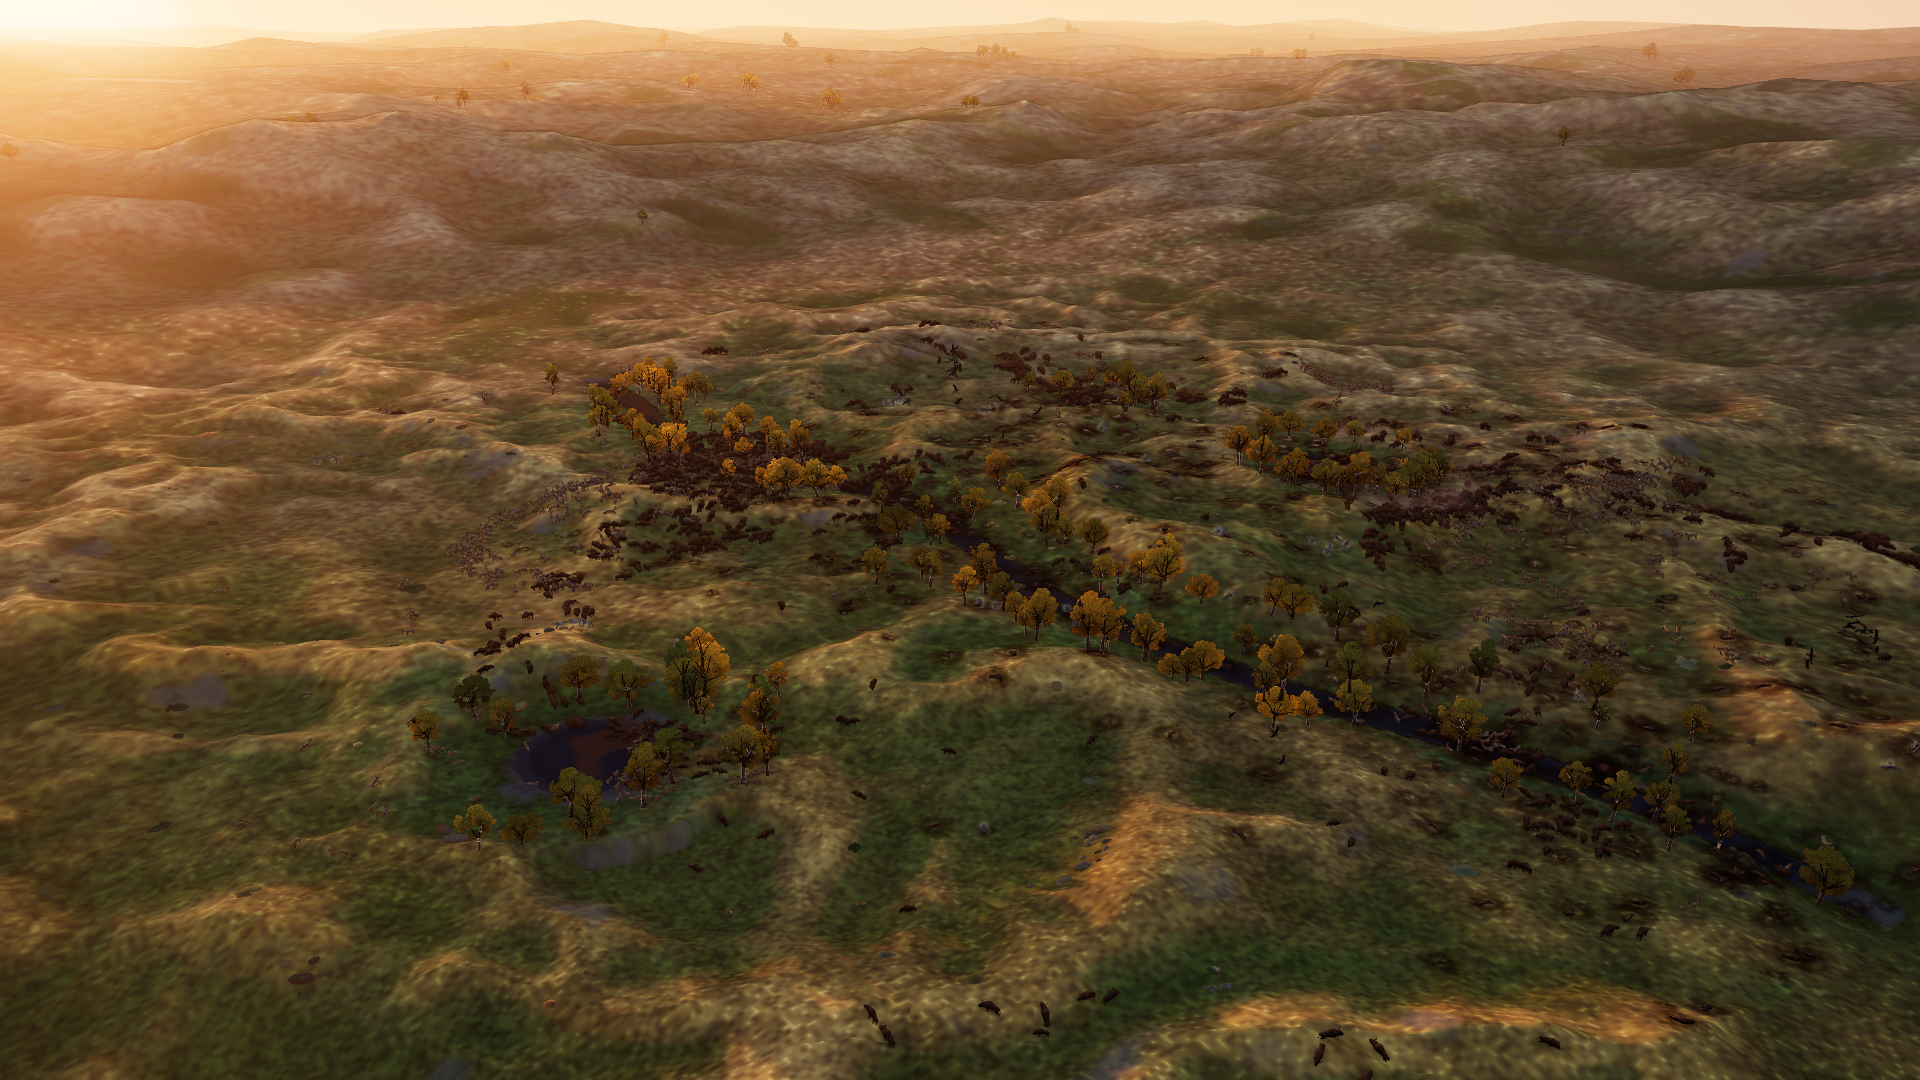
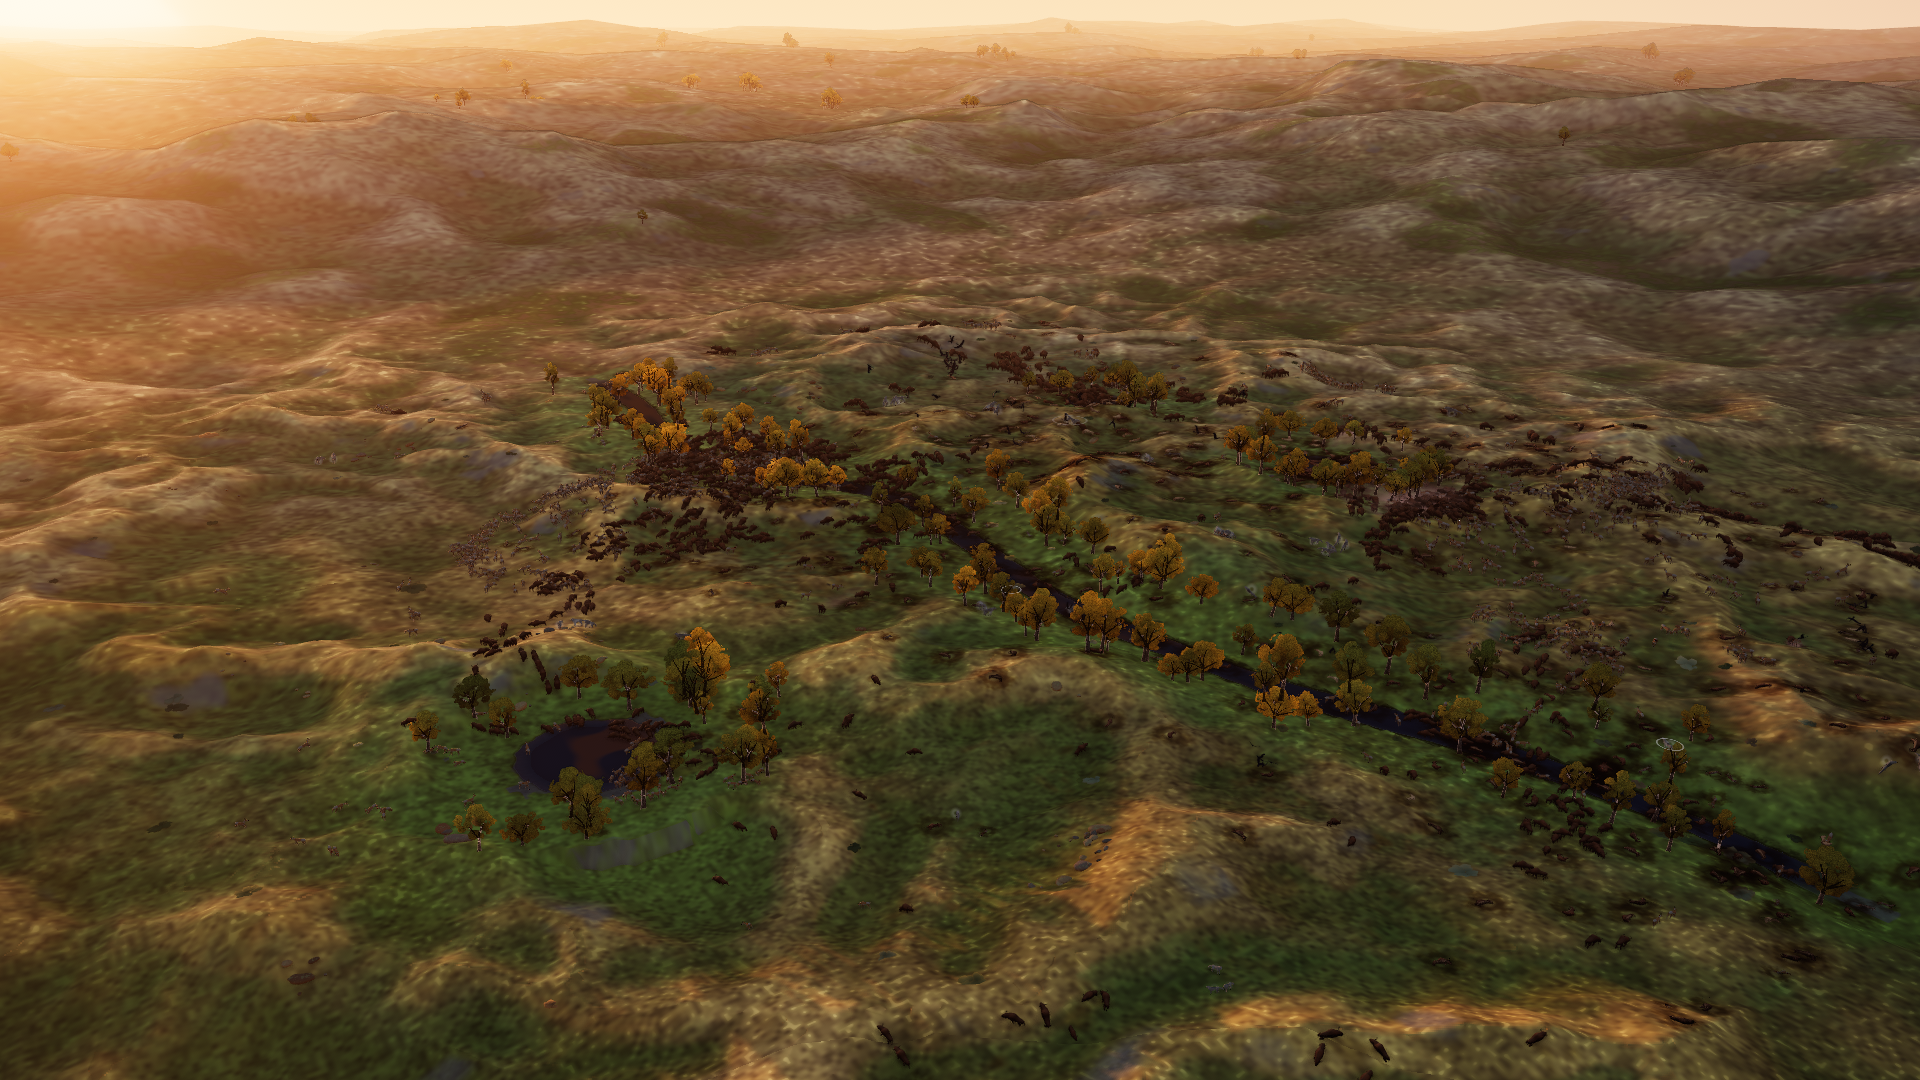
Morning report: 10:59 deploy with the riparian ribbon, round 10 Gemini scores, challenge suite re-check, final screenshots

diff --git a/MORNING.md b/MORNING.md
@@ -1,15 +1,15 @@
 # Good morning: Tallgrass overnight report
 
-*(Updated 10:37 Sunday. I keep working until the deadline in `.claude/hooks/run_until.txt` (Sunday 12:00); this file is refreshed at every milestone.)*
+*(Updated 11:05 Sunday. I keep working until the deadline in `.claude/hooks/run_until.txt` (Sunday 12:00); this file is refreshed at every milestone.)*
 
 ## How to run it (one step)
 Open **https://tallgrass.stewartgregerson.workers.dev** in Chrome or Edge. Click once anywhere to turn on sound. (The live build is redeployed after each verified milestone; the time of the last deploy is in the line below.)
 
-Last deploy: 10:36 Sunday (commit 268d73d: everything below, including the round 9 fixes (rain in the map view, frozen-pond rims, smaller chapter titles) and the final quick round: natural grey wolves, slimmer predators and brown bison from above, bison dark at dusk, idle head bobs and look-arounds, prey that struggles under a kill, wolf territories as tinted ranges, side panels that dim after 20 s idle, softer snow edges, smooth rocks, ponds without a white glare disc; and the rounds before it: smoother animal motion, curled resting wolves, species readable from above, carcasses on the slope, gliding ravens, water that reads at distance and in rain, winter snowpack and bare trees, visible rain, the chronicle's season lines, softer territories, the Hungry wolves scenario, the 2x valley calendar and the narrator), verified live at 10:36: no errors at 58 to 60 fps (1280x720); the default world reads "1 year every 2 min" and challenges keep "1 year every 4 min".
+Last deploy: 10:59 Sunday (commit 359f512: everything below, including the green riparian ribbon along the creek and ponds, the round 9 fixes (rain in the map view, frozen-pond rims, smaller chapter titles, traits in plain words, quieter graph labels, a coral territory) and the final quick round: natural grey wolves, slimmer predators and brown bison from above, bison dark at dusk, idle head bobs and look-arounds, prey that struggles under a kill, wolf territories as tinted ranges, side panels that dim after 20 s idle, softer snow edges, smooth rocks, ponds without a white glare disc; and the rounds before it: smoother animal motion, curled resting wolves, species readable from above, carcasses on the slope, gliding ravens, water that reads at distance and in rain, winter snowpack and bare trees, visible rain, the chronicle's season lines, softer territories, the Hungry wolves scenario, the 2x valley calendar and the narrator), verified live at 10:59: no errors at 60 fps (1280x720); the default world reads "1 year every 2 min" and challenges keep "1 year every 4 min".
 
 Locally: `npm run dev`, then http://localhost:5199/.
 - `?seed=anything` picks a world, `?scenario=yellowstone` picks a scenario, `?challenge=herd` starts a challenge. The menu (top right) does all three.
-- Performance on this machine's RTX 5070 Ti Laptop GPU, measured after renderer round 7 (06:30 Sunday, GPU timers, median ms per frame at 1440p): wide golden 10.0, low golden 15.8, herd 10.3, top 9.6, winter 9.2, night 11.4. The final quick round (animals, UI, water, renderer) adds about 0.5 ms per frame at 1440p in a paired GPU test with the two builds swapped between runs: an A/A test showed this bench can favour one side by up to 1 ms on its own, so a single A/B run misleads. The live checks show 57 to 60 fps at 1280x720. The low grass view has the least headroom. On bigger or high-DPI screens the game lowers its render resolution a little if it has to, to hold 60 fps.
+- Performance on this machine's RTX 5070 Ti Laptop GPU, measured after renderer round 7 (06:30 Sunday, GPU timers, median ms per frame at 1440p): wide golden 10.0, low golden 15.8, herd 10.3, top 9.6, winter 9.2, night 11.4. The final quick round (animals, UI, water, renderer) adds about 0.5 ms per frame at 1440p and the riparian ribbon about 0.35 ms more (0.8 ms in the low grass view), in a paired GPU test with the two builds swapped between runs: an A/A test showed this bench can favour one side by up to 1 ms on its own, so a single A/B run misleads. The live checks show 57 to 60 fps at 1280x720. The low grass view has the least headroom. On bigger or high-DPI screens the game lowers its render resolution a little if it has to, to hold 60 fps.
 - Keys: Space pause, 1/2/3 speed, **N next event** (the camera flies to it), **C cinematic documentary mode**, **P photo** (saves a clean PNG of the frame), G big graph, E evolution chart, L log scale, F follow the selected animal, **H ambient view** (hides all UI; any key or click brings it back), **V narrator on/off**, M mute, Esc back out. Click an animal to inspect it and read its life story. Left-drag orbits, right-drag pans, wheel zooms.
 
 ## What it is
@@ -29,10 +29,11 @@ New since Saturday evening (overnight into Sunday):
 - **Winters and weather that read:** on the short calendar snow storms were rare, so winters looked like autumn. Deep winter now carries a patchy snowpack, trees stay bare until spring (a leaf-curve bug had them greening in late winter), rain brings overcast light and streaks (which fade out in the straight-down map view), and nights keep their relief instead of a flat teal.
 - **Water that reads as water:** depth and a visible bed, a creek current that scrolls downstream, wet banks, reflections of the banks and trees, and ponds that freeze from the shore in winter.
 - **Final quick round (deployed 09:51, plus fixes from review round 9):** grazers bob their heads between bites, look up and around now and then, and flick their tails; prey bucks and twists under a wolf before it falls; side panels dim after 20 s idle (`?dim=0` turns it off); ponds facing the sun no longer blow out to a white disc; snowpack edges are ragged and flecked with grass; rocks are smooth ground-tinted boulders; frozen ponds have a soft drift of snow against the shore instead of a glowing white ring at night; chapter titles are a little smaller; the inspector shows traits in plain words against the founders ("speed +5%", "coat darker"); the big graph's low axis numbers are quieter so rows don't read as one column; the rose wolf territory is now a clearer coral.
+- **A green riparian ribbon** along the creek and around the ponds, as in your concept image: 11 to 37 m wide, widening and pinching along the channel, greener than the uplands through the autumn cure, muted in winter, dulled by drought and grazing. Pond and creek rims are a lighter, broken mud lip instead of a dark ring.
 - **Snow bug fixed:** after a fast-forward on a slow frame rate, snow could linger into early summer. Weather now tracks the calendar at any frame rate.
 
 Earlier, Saturday (since 09:00):
-- **Challenges** (menu, top): five tuned challenges, each a named world, a time limit, an intervention budget and a goal. From easiest: *The wolves come home*, *Island of plenty*, *Save the herd*, *Pull it back*, *The dry years*. Each was played headless on the current sim both hands-off (it fails) and by a simple scripted player (it can be won within the budget); `tools/challenge_suite.py` re-checks all five in one command. Details in `DECISIONS.md` (11:35 and 17:20).
+- **Challenges** (menu, top): five tuned challenges, each a named world, a time limit, an intervention budget and a goal. From easiest: *The wolves come home*, *Island of plenty*, *Save the herd*, *Pull it back*, *The dry years*. Each was played headless on the current sim both hands-off (it fails) and by a simple scripted player (it can be won within the budget); `tools/challenge_suite.py` re-checks all five in one command; re-run on this morning's final code (10:57 Sunday): all five still fail hands-off and are won by the scripted player. Details in `DECISIONS.md` (11:35 and 17:20).
 - **Map overlays** (button right of the time controls): vegetation, landscape of fear, wolf territories with pack names and sizes, and a speed-gene heatmap.
 - **Life story** in the inspector, with an "In memoriam" card when the animal dies. **Named worlds** in the menu (seeds with remarkable histories). **Photo mode** (P).
 - **Cougars** in the "Cougar country" scenario: ambush hunters that wait in cover by the water.
@@ -64,9 +65,9 @@ Earlier, Saturday (since 09:00):
 4. Overlays, **Wolf territories**, then 10x: watch packs form, bud and fall apart.
 5. Press **G**, then 100x: decades of booms and crashes, now on the slower calendar. **E** for evolution.
 
-## Screenshots (the deployed build, captured at 10:40 in `review/morning/final/`; earlier sets in `review/morning/`)
-- `1_golden_herd.png`: the creek valley from the drone in late-summer light, herds grazing along the cottonwoods.
-- `2_golden_low.png`: ground level against a low sun, bison on the rise and a fresh kill in the foreground (no interface, H).
+## Screenshots (the deployed build, captured at 11:01 in `review/morning/final/`; earlier sets in `review/morning/`)
+- `1_golden_herd.png`: the creek valley from the drone in late-summer light, with the new green ribbon along the banks and herds grazing by the cottonwoods.
+- `2_golden_low.png`: ground level against a low sun, bison passing close and a carcass in the grass (no interface, H).
 - `3_dusk_valley.png`: the whole valley at dusk, the creek's tree line and the pond.
 - `4_winter_dawn.png`: winter dawn, patchy snowpack, bare cottonwoods and a herd strung along the creek, whose current keeps it open.
 - `5_ui_golden.png`: the documentary interface with the chronicle's season lines.
@@ -126,6 +127,7 @@ The default sim is now **checkpoint v5 on a 2x valley calendar** (since about 06
 | 8 (09:05) | blind critic, stills + 2x-calendar charts | 7 | 5 | 6 | 4 | 6 | 5 |
 | 8 (09:10) | Gemini, video | 5 | 6 | 2 | 4 | 8 | 3 |
 | 9 (10:19) | blind critic, stills of the final build | 7 | 5 | 6 | 5 | 7 | 6 |
+| 10 (10:57) | Gemini, video of the final build | 7 | 6 | 3 | 8 | 9 | 5 |
 
 Every issue and its triage is in `REVIEWS.md`.
 - Round 4's verdict: animals were illegible and looked motionless at drone distance. In the drone shots a wolf is about 20 px tall, so planted feet can't read. The animal work since then targets exactly that, with whole-body motion scaled to camera distance, larger minimum sizes and a kill lunge.
@@ -134,6 +136,7 @@ Every issue and its triage is in `REVIEWS.md`.
 - Round 7 (after the calendar, narrator, Field notes, renderer, water and dust rounds): readability up to 6. Praised: golden-hour and dusk lighting ("wallpaper-grade"), wolves that pop, the follow panel, the territory overlay, and shock tests that "tell a real trophic story". Its top complaint is still the predators: wolves and ravens sit on near-flat lines (the research is under Next 5 things). Fixed since: winter snowpack and leafless winter trees, visible rain, night that reads as land, distant water that reads as water, a richer chronicle, readable species from above.
 - Round 8 (on the 09:01 build): scores held (stills 7, 5, 6, 4, 6, 5; Gemini 5, 6, 2, 4, 8, 3). Both critics still lead with the same two things this build can't fix tonight: predators that don't move (the stills critic) and close-up animation that reads as sliding (Gemini, even after the motion smoothing). A last quick round from it is now live: natural grey wolves, species proportions from above, softer snow edges, smooth rocks, no glare discs on ponds, clearer territories, and side panels that dim when you're not touching them.
 - Round 9 (on the 09:51 build with the final quick round): ecosystem, UI and keep-watching each up a point (7, 5, 6, 5, 7, 6). Its top two are unchanged (flat wolves and ravens, evolution that stops by year 300); new complaints are muddy winter and drought colour, herds as one carpet, and rain streaks in the map view (fixed at 10:23). Its four charts were stale copies from round 8, my mistake, so its chart-legend complaints were already fixed.
+- Round 10 (Gemini, video of the final build before the riparian ribbon): its best scores yet (7, 6, 3, 8, 9, 5 against round 8's 5, 6, 2, 4, 8, 3); it calls the fast-forward view "genuinely mesmerizing" and the UI and territory overlay excellent. Close-up animation is still its top complaint (sliding, a kill without struggle, metronomic ravens), even after tonight's motion rounds, so the 0.25 s struggle and the gliding ravens don't read on video yet.
 
 ## Decisions you might want to overrule
 - **Stack:** TypeScript + Three.js instead of Godot (ADR-001 in `DECISIONS.md`): one language for sim, harness and renderer, headless GPU capture, and the URL build.
@@ -155,11 +158,11 @@ Every issue and its triage is in `REVIEWS.md`.
 - **Not built:** family tree view, river diversion and forest planting tools.
 
 ## API spend
-Gemini: 3 concept images, 7 video critiques, about 60 short text and audio listen-checks (under $1.50 in all). ElevenLabs (pay-as-you-go): 17 sound-effect generations and 24 narrator takes (1,911 characters, roughly $0.40 to $0.60). Meshy, Sketchfab: balance and search checks only. Every call is in `ASSETS.md`.
+Gemini: 3 concept images, 8 video critiques, about 60 short text and audio listen-checks (under $1.50 in all). ElevenLabs (pay-as-you-go): 17 sound-effect generations and 24 narrator takes (1,911 characters, roughly $0.40 to $0.60). Meshy, Sketchfab: balance and search checks only. Every call is in `ASSETS.md`.
 
 ## Next 5 things I'd do
 1. **Wolves that follow their prey.** On the default calendar wolf numbers stay nearly flat (annual CV about 0.1): packs are limited by territory, and pronghorn and small game carry them through a bison crash, so in a few worlds they grind the herd down (seed 11). Tonight's best screen (2x calendar + prey-scaled pack sizes + a stronger refuge for rare prey + fewer young in lean times; `scratch/L1`, 32 worlds x 200 valley-years) makes wolves truly follow the bison (correlation 0.77, two years behind, CV 0.30) with bison, wolves and ravens alive in **32 of 32** worlds. Pronghorn reach 25 of 32 at 200 years, but its 1,000-generation acceptance (`review/stability/hungrywolves-44a2bfe`, 20 worlds) ends with bison, wolves and ravens alive in 19 of 20 and the pronghorn extinct in all 20, between years 88 and 585 (median 279): they starve after overshooting on the forage the held-down bison leave (two-thirds of their deaths). So the predator side works and the pronghorn side doesn't yet; the next step is a pronghorn-specific brake on fawning. You can watch it today: Menu, Scenarios, **Hungry wolves**.
 2. **Evolution that keeps running.** Bison speed and size climb to their limits within a century, because speed costs almost nothing and size pays for itself, herding fades, and the litter gene drifts until bison routinely bear twins. Tonight's screens: a real sprint cost (`sprintCost` 0.5) keeps herding alive but pushes pronghorn speed, their defence, down to 0.74; at 0.1 herding still fades; a single-calf cap for bison costs a little persistence (29 of 32). Next: a per-species sprint cost between those, plus the bison calf cap (details in `DECISIONS.md`, 04:55 to 08:50 Sunday).
 3. **Herd shape.** Grazing herds still form rings and crescents. Re-screened on the new calendar, the nearest-neighbour herd rule no longer costs persistence (31 of 32 worlds for every species, `scratch/hn2`), but in the game it doesn't visibly loosen the herds either (`scratch/herds/compare_early.jpg`). The next thing to try is personal space while feeding, so grazers spread into loose patches. The nearest-neighbour rule's own 1,000-generation run was stopped at 10:16: it would not have finished before noon, and without a visible payoff it isn't a candidate yet.
-4. **Close the gap to your concept image:** the riparian green along the creek, more width variation in the creek channel, pond rims (the mud band still reads as a ring from above), and herds that graze in loose patches instead of tight masses.
+4. **Close the gap to your concept image:** the riparian ribbon is in (10:59), a little darker and more olive than the concept's sunlit green. Still to do: more width variation in the creek channel itself, the bare apron on the shaded side of ponds, drought ground that goes pale straw instead of mauve, and herds that graze in loose patches instead of tight masses.
 5. **Landing page:** the draft is up (link above); if you like it, deploy it beside the game (for example at /about) and swap in fresh stills.
